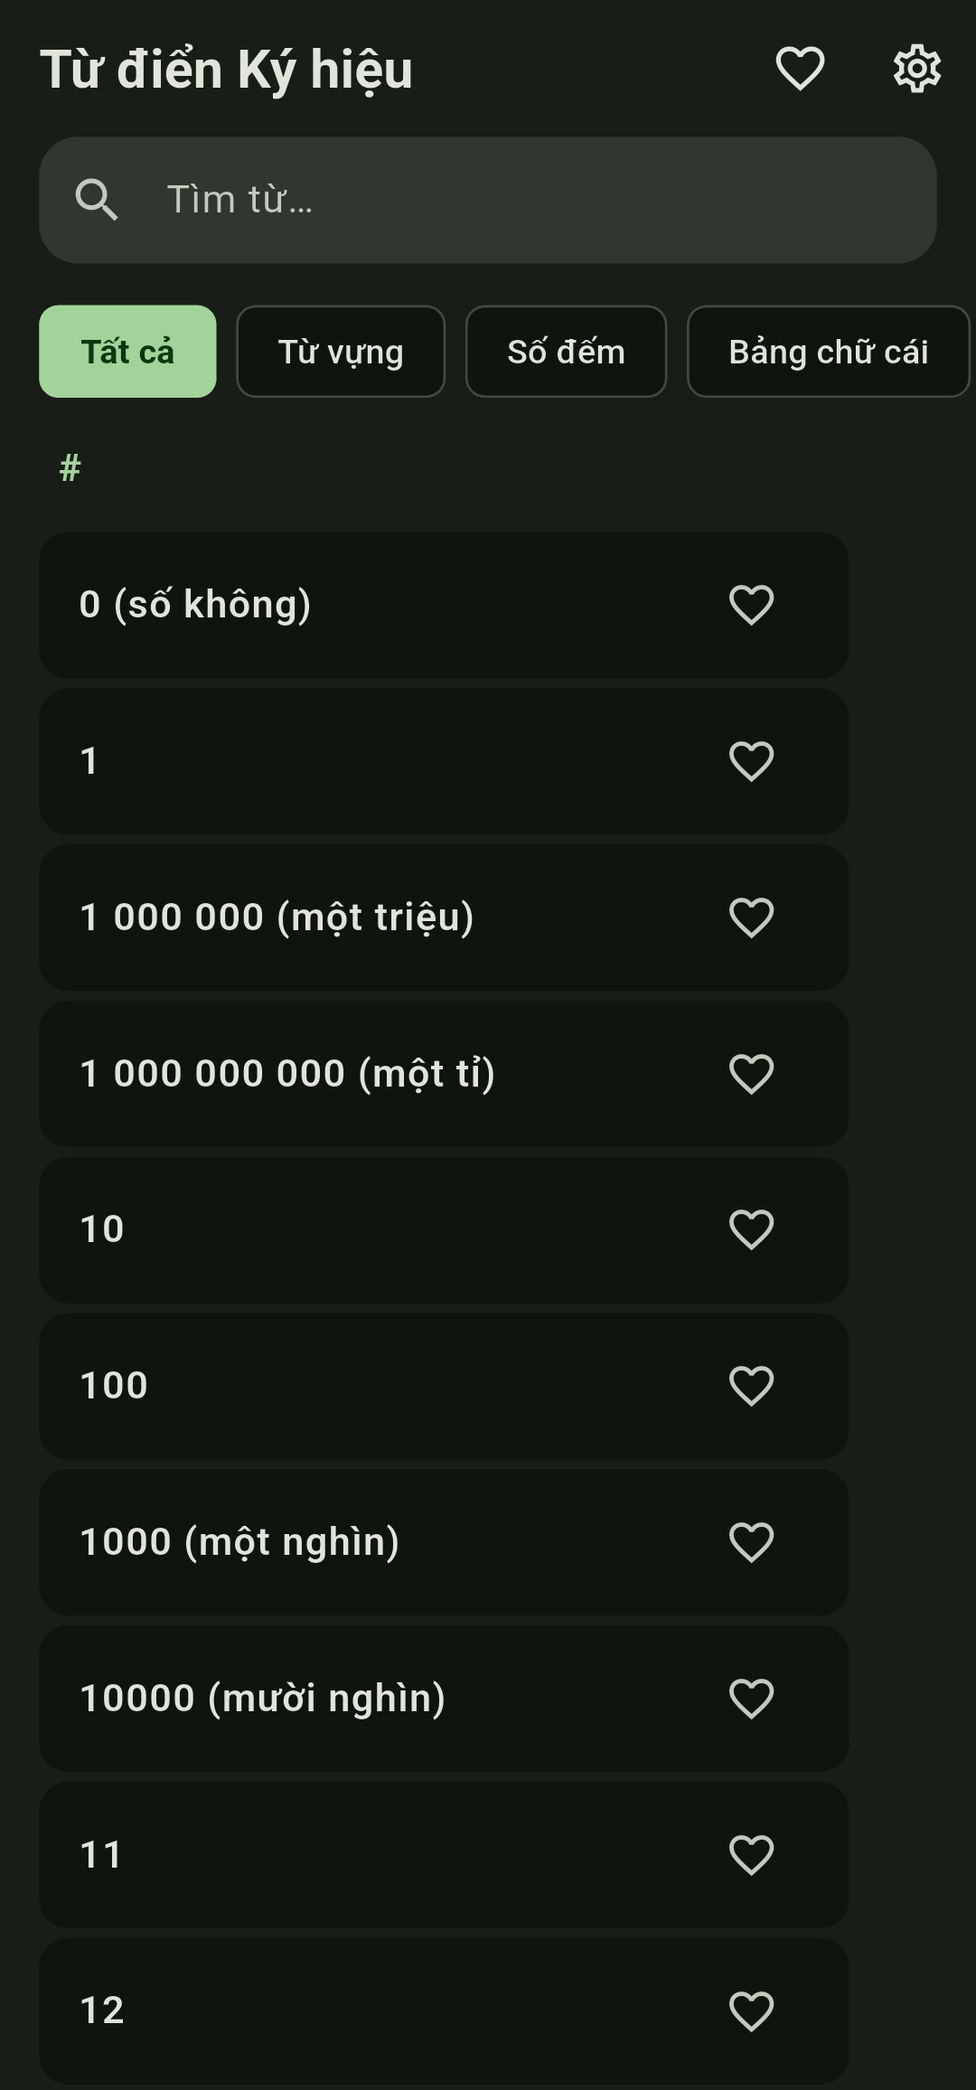
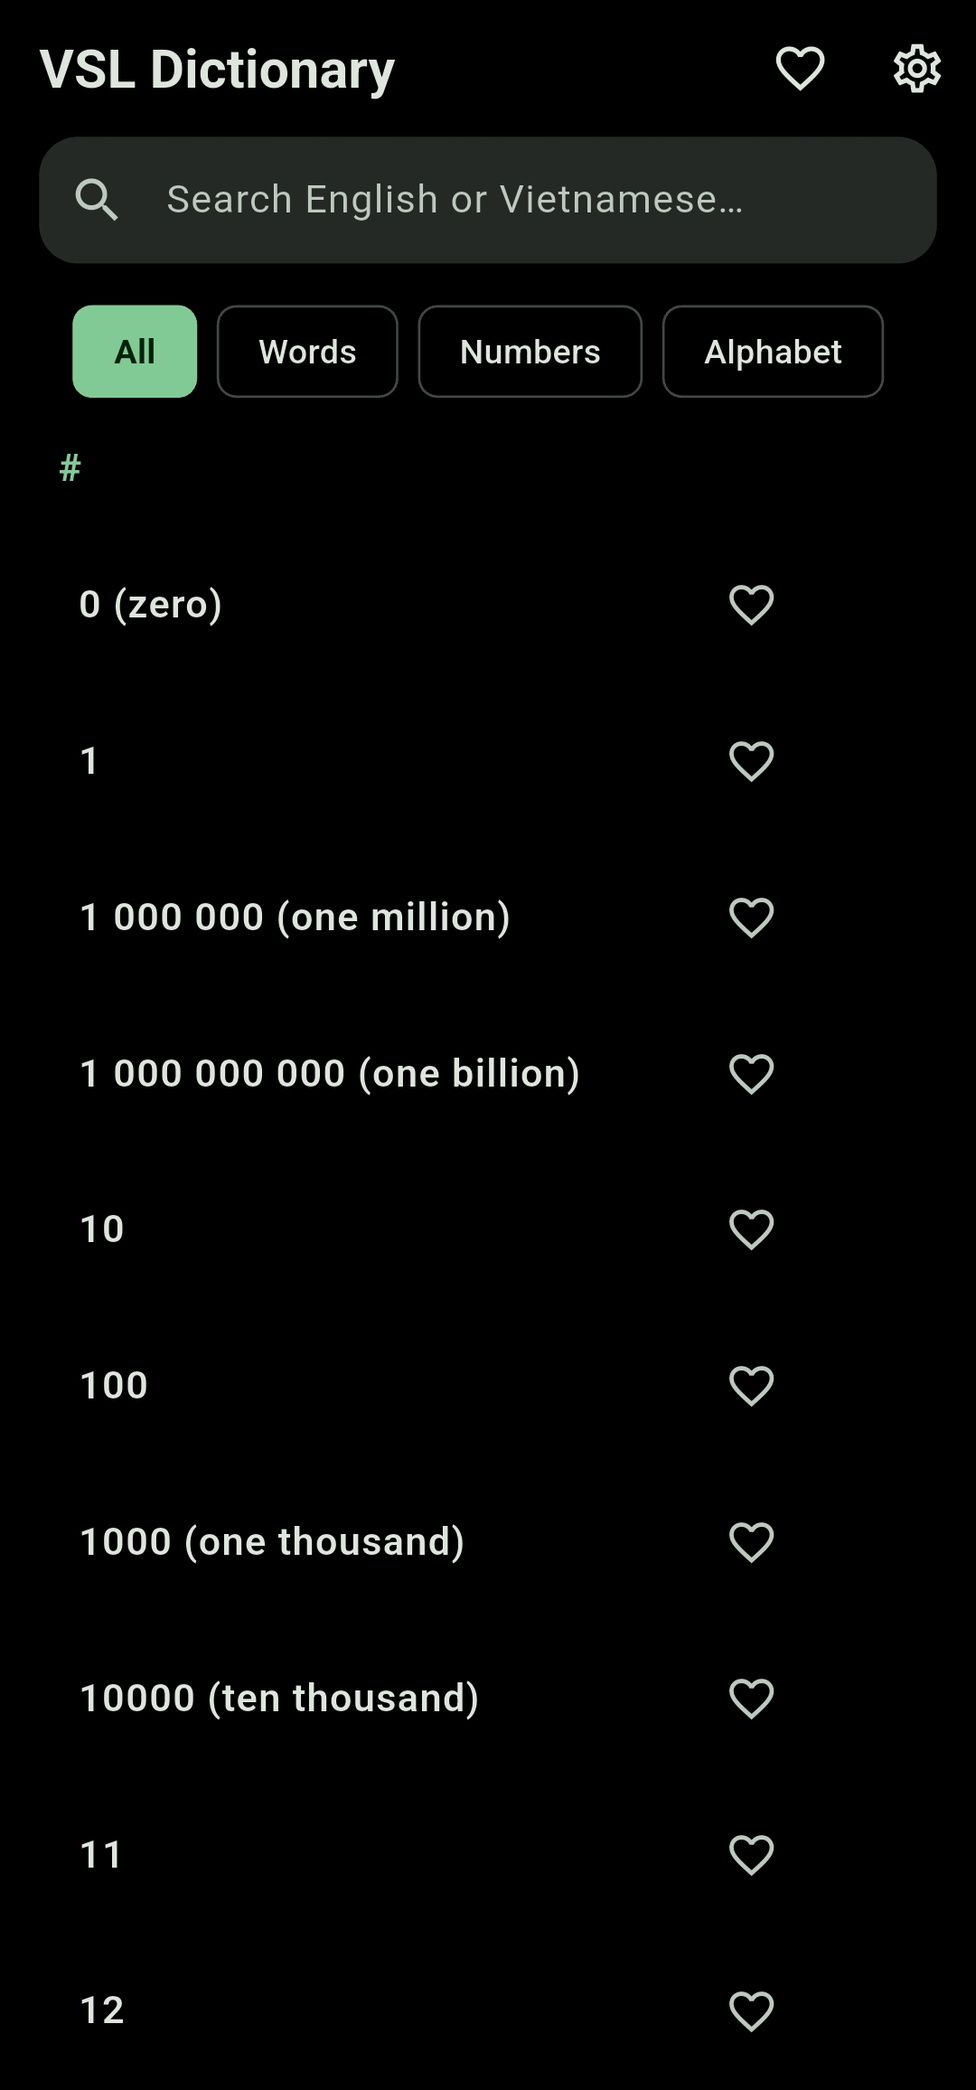
update some info

diff --git a/README.vi.md b/README.vi.md
@@ -1,0 +1,180 @@
+# VSL Dictionary — Từ điển Ký hiệu Việt Nam
+
+[English](README.md) | **Tiếng Việt**
+
+[![Build](https://github.com/ngozz/vsl-dictionary/actions/workflows/build.yml/badge.svg)](https://github.com/ngozz/vsl-dictionary/actions/workflows/build.yml)
+[![License: MIT](https://img.shields.io/badge/License-MIT-green.svg)](LICENSE)
+[![Release](https://img.shields.io/github/v/release/ngozz/vsl-dictionary?display_name=tag)](https://github.com/ngozz/vsl-dictionary/releases)
+<!-- F-Droid: [![F-Droid](https://img.shields.io/f-droid/v/com.ngozz.vsl_dictionary.svg)](https://f-droid.org/packages/com.ngozz.vsl_dictionary/) -->
+
+Ứng dụng Flutter nhanh, ưu tiên offline để tra cứu Từ điển Ký hiệu Việt Nam.
+Video là chính, tìm kiếm là chính, không rườm rà. Giao diện tiếng Việt,
+tiếng Anh hoặc Kết hợp.
+
+**Nguồn dữ liệu:** nội dung từ điển được chuyển thể từ Từ điển Ngôn ngữ ký
+hiệu quốc gia tại [qipedc.moet.gov.vn/dictionary](https://qipedc.moet.gov.vn/dictionary).
+
+## Ngôn ngữ
+
+- **Giao diện:** tiếng Việt, tiếng Anh hoặc **Kết hợp** (từ tiếng Anh làm
+  chính, kèm tiếng Việt bên dưới) — Cài đặt → Ngôn ngữ, cũng được hỏi khi mở
+  ứng dụng lần đầu.
+- **Nội dung:** bản thân từ điển là **tiếng Việt** — từ khóa, nghĩa và video
+  dấu là dữ liệu gốc. Nghĩa và định nghĩa tiếng Anh là lớp dịch đi kèm, hiển
+  thị cùng với bản gốc.
+- **Tìm kiếm** theo giao diện: chỉ tiếng Việt ở chế độ Việt, gloss tiếng Anh
+  ở chế độ Anh, và gộp cả hai (khớp tốt nhất lên đầu) ở chế độ Kết hợp.
+- *Ghi chú về bản dịch:* phần tiếng Anh được dịch với sự hỗ trợ của AI và
+  được người thật soát một phần. Một số mục vẫn có thể hơi gượng — rất mong
+  nhận được sửa lỗi qua issues.
+
+## Cài đặt
+
+- **Android:** APK mới nhất tại
+  [Releases](https://github.com/ngozz/vsl-dictionary/releases):
+  - `vsl-dictionary-android.apk` — nhỏ (~25 MB), video dấu phát từ CDN, tải
+    về trong ứng dụng để dùng offline
+  - `vsl-dictionary-android-full.apk` — ~600 MB, kèm toàn bộ media, offline
+    hoàn toàn ngay khi cài
+- **Web:** <https://ngozz.github.io/vsl-dictionary/>
+- **iOS** (IPA chưa ký): thêm vào SideStore/AltStore bằng nguồn bên dưới.
+
+## Ảnh minh họa
+
+Giao diện tiếng Việt:
+
+<p align="center">
+  <a href="ss/1_vn.jpg"><img src="ss/1_vn.jpg" width="23%" alt="Onboarding — Chào mừng đến với VSL Dictionary"></a>&nbsp;<a href="ss/2_vn.jpg"><img src="ss/2_vn.jpg" width="23%" alt="Trang chủ — tìm kiếm và duyệt từ"></a>&nbsp;<a href="ss/3_vn.jpg"><img src="ss/3_vn.jpg" width="23%" alt="Cài đặt — vùng mặc định, giao diện, tải offline"></a>&nbsp;<a href="ss/4_vn.jpg"><img src="ss/4_vn.jpg" width="23%" alt="Trang từ — video dấu, xem chậm, ảnh minh họa"></a>
+</p>
+
+Giao diện tiếng Anh:
+
+<p align="center">
+  <a href="ss/1.jpg"><img src="ss/1.jpg" width="23%" alt="Onboarding (English UI)"></a>&nbsp;<a href="ss/2.jpg"><img src="ss/2.jpg" width="23%" alt="Home — search and browse"></a>&nbsp;<a href="ss/3.jpg"><img src="ss/3.jpg" width="23%" alt="Settings — region, theme, offline downloads"></a>&nbsp;<a href="ss/4.jpg"><img src="ss/4.jpg" width="23%" alt="Word screen — sign video, slow-mo, illustrations"></a>
+</p>
+
+*Chạm vào ảnh để xem kích thước đầy đủ.*
+
+## Tính năng
+
+- **Trang chủ tìm-trước**: tìm kiếm tức thì không phân biệt dấu — gõ "cho"
+  vẫn ra "chó" — xếp hạng theo tiền tố/âm tiết và đánh dấu khớp, trên hơn
+  4.300 dấu. Ở chế độ English hoặc Kết hợp, gloss tiếng Anh cũng được tìm.
+- **Tab duyệt** — Tất cả (nhóm theo bảng chữ cái, có thanh nhảy A-Z và
+  scrollbar kéo được), Từ vựng, Số đếm, Bảng chữ cái. Sắp xếp theo từ hiển thị
+  của ngôn ngữ giao diện hiện tại.
+- **Trang từ** — video dấu (H.264, không tiếng theo thiết kế), biến thể theo
+  vùng (Bắc / Trung / Nam) nếu có, xem chậm 0.5×, toàn màn hình, nghĩa và ảnh
+  minh họa.
+- **Nội dung tiếng Anh** — gloss và định nghĩa tiếng Anh trên mọi mục đã
+  dịch; từ tiếng Anh làm chính ở chế độ English/Kết hợp, kèm tiếng Việt bên
+  dưới ở chế độ Kết hợp.
+- **Cá nhân hóa** — yêu thích, vùng mặc định, ba giao diện (tối / đen hoàn
+  toàn AMOLED / sáng, Material 3 xanh lá).
+- **Offline hoàn toàn** — video dấu phát từ CDN theo mặc định (APK nhỏ
+  ~25 MB) và có thể tải về trong ứng dụng để có thư viện offline đầy đủ;
+  bản FULL (~600 MB APK) kèm sẵn toàn bộ.
+
+## Cấu trúc dự án
+
+```
+vsl-dictionary/
+├── data/
+│   ├── vsl_data.json     # danh mục từ điển (id, word, type, description…)
+│   ├── i18n/en/          # sidecar tiếng Anh (gloss + định nghĩa)
+│   ├── videos/           # 4.364 video dấu đã encode lại (H.264 mp4, không âm thanh)
+│   └── images/           # 1.840 ảnh minh họa (WebP q80)
+├── lib/
+│   ├── main.dart         # điểm vào app + theme Material You
+│   ├── models/word.dart  # data model
+│   ├── services/         # tìm kiếm, xử lý media, cài đặt
+│   └── screens/          # home (tìm kiếm/duyệt) + trang từ
+├── ss/                   # ảnh chụp dùng trong README này (giao diện Việt + Anh)
+├── .github/workflows/    # CI build + release (xem bên dưới)
+└── icon.png              # nguồn icon launcher
+```
+
+Thư mục `_sources/` (không kèm theo đây) chứa dự án Unity gốc. Phần dữ liệu
+do tôi thực hiện: video được encode lại thành H.264 mp4, ảnh thành WebP.
+
+## Build
+
+```bash
+flutter pub get
+flutter run              # chạy trên thiết bị
+flutter build apk --release         # Android
+flutter build web --release         # Web → build/web
+flutter build ios --no-codesign     # iOS (cần Xcode + macOS)
+```
+
+## CI/CD (GitHub Actions)
+
+`.github/workflows/build.yml` build và publish tự động. Trigger:
+
+| Trigger | Kết quả |
+|---|---|
+| Commit có **tin nhắn chứa `[build]`** | Build **cả hai biến thể**: Android APK + iOS IPA chưa ký + Web |
+| **Thủ công** (`workflow_dispatch`) | Như trên, bất cứ lúc nào |
+| Push khác | CI được bỏ qua có chủ đích |
+
+Mỗi lần build **tạo một GitHub Release** (`v<số-run>`) chứa **cả hai biến
+thể**, build từ cùng một commit:
+
+- `vsl-dictionary-android.apk` — SMALL (CDN): video dấu phát từ media host,
+  tải về trong ứng dụng để dùng offline
+- `vsl-dictionary-android-full.apk` — FULL: kèm toàn bộ media (~600 MB)
+- `vsl-dictionary-ios-unsigned.ipa` — SMALL (CDN); nguồn SideStore/AltStore
+  trỏ tới file này
+- `vsl-dictionary-ios-full-unsigned.ipa` — FULL: kèm toàn bộ media
+- `vsl-dictionary-web.zip` — bản web tĩnh
+
+Bản web cũng được **triển khai lên GitHub Pages** tự động mỗi lần build
+`main` (base path được ném vào lúc build nên chạy được dưới `/<repo>/`).
+Ứng dụng online tại `https://ngozz.github.io/vsl-dictionary/`.
+
+Muốn đưa lên Play Store hay F-Droid? Xem [PUBLISHING.md](PUBLISHING.md).
+
+## Chế độ CDN (bản SMALL)
+
+Video dấu phát từ `https://vsl-dictionary-media.ngozz.workers.dev`
+(Cloudflare Workers static assets, free tier). Thứ tự ưu tiên: bản đã tải →
+CDN → asset kèm sẵn. `tools/toggle_videos.ps1` chuyển qua lại giữa hai biến
+thể (dòng asset trong pubspec + `lib/config.dart` cùng lúc); CI chạy nó hai
+lần mỗi release để build cả hai.
+
+- **Tải tất cả** (Cài đặt → Tải xuống & cập nhật): ~513 MB vào bộ nhớ ứng
+  dụng, kiểm tra kích thước + SHA-256 trước khi kích hoạt; chạy lại chỉ
+  enqueue phần chênh lệch.
+- **Kiểm tra cập nhật**: khi mở ứng dụng (có thể tắt) hoặc thủ công — so
+  kích thước manifest với bản local và hỏi trước khi tải lại bất cứ thứ gì.
+- **Web**: phát CDN-first; nếu CDN lỗi với một video, player thử lại từ bản
+  kèm trên GitHub Pages.
+
+Bản iOS có thể thêm vào SideStore hoặc AltStore bằng nguồn này:
+`https://ngozz.github.io/vsl-dictionary/altstore-source.json`. Nó trỏ tới bản
+IPA **nhỏ** chưa ký mới nhất (offline đến từ tải trong ứng dụng);
+SideStore/AltStore ký khi cài.
+
+### Ghi chú setup repo
+
+1. Bật **Actions → Settings → Pages → GitHub Pages** với nguồn là workflow
+   (job `deploy-pages` tự cấu hình việc này).
+2. Media (~540 MB) làm repo nặng; cân nhắc [`git lfs`](https://git-lfs.com)
+   cho `data/videos/*` nếu gặp giới hạn push — hoặc bỏ media khỏi git và
+   lấy từ CDN ở vòng sau (media service được thiết kế để đổi prefix sang
+   URL). Lưu ý: máy build của F-Droid clone cả repo nên cần làm gọn trước
+   khi gửi (xem [PUBLISHING.md](PUBLISHING.md)).
+3. Build iOS không cần setup thêm (không có cấu hình ký = IPA chưa ký trên
+   macOS runner).
+
+## Ghi công dữ liệu
+
+Nội dung từ điển lấy từ
+[Việt Nam Dictionary of Sign Language](https://qipedc.moet.gov.vn/dictionary)
+(Trung tâm Ký hiệu Việt Nam / Bộ Giáo dục và Đào tạo). Dự án này là trình đọc
+dùng cá nhân, không phải sản phẩm gốc.
+
+## Giấy phép
+
+[MIT](LICENSE) — nội dung từ điển thuộc về nhà xuất bản gốc của nó (xem ghi
+công ở trên).

diff --git a/README.md b/README.md
@@ -1,30 +1,77 @@
 # VSL Dictionary — Từ điển Ký hiệu Việt Nam
 
+**English** | [Tiếng Việt](README.vi.md)
+
+[![Build](https://github.com/ngozz/vsl-dictionary/actions/workflows/build.yml/badge.svg)](https://github.com/ngozz/vsl-dictionary/actions/workflows/build.yml)
+[![License: MIT](https://img.shields.io/badge/License-MIT-green.svg)](LICENSE)
+[![Release](https://img.shields.io/github/v/release/ngozz/vsl-dictionary?display_name=tag)](https://github.com/ngozz/vsl-dictionary/releases)
+<!-- F-Droid: [![F-Droid](https://img.shields.io/f-droid/v/com.ngozz.vsl_dictionary.svg)](https://f-droid.org/packages/com.ngozz.vsl_dictionary/) -->
+
 A fast, offline-first Flutter app for browsing the Vietnamese Sign Language
-dictionary. Video-first, search-first, no fluff.
+dictionary. Video-first, search-first, no fluff. Interface in Vietnamese,
+English or Mixed.
 
 **Source data:** dictionary content transcribed from the National Sign
 Language Dictionary at [qipedc.moet.gov.vn/dictionary](https://qipedc.moet.gov.vn/dictionary).
 
+## Languages
+
+- **Interface:** Vietnamese, English, or **Mixed** (English headwords with
+  the Vietnamese word underneath) — Settings → Language, also asked on first
+  launch.
+- **Content:** the dictionary itself is **Vietnamese** — headwords,
+  definitions and the sign videos are the original data. English glosses and
+  definitions are a translated companion layer shown alongside them.
+- **Search** follows the interface: Vietnamese-only in Vietnamese, English
+  glosses in English, and both languages merged (best match first) in Mixed.
+- *Translation note:* English text was translated with AI assistance and
+  partially reviewed by hand. Some entries may still read awkwardly —
+  corrections are very welcome via issues.
+
+## Install
+
+- **Android:** latest APKs from
+  [Releases](https://github.com/ngozz/vsl-dictionary/releases):
+  - `vsl-dictionary-android.apk` — small (~25 MB), streams sign videos from
+    the CDN, downloads them in-app for offline use
+  - `vsl-dictionary-android-full.apk` — ~600 MB, everything bundled, works
+    fully offline out of the box
+- **Web:** <https://ngozz.github.io/vsl-dictionary/>
+- **iOS** (unsigned IPA): add to SideStore/AltStore with the source below.
+
 ## Screenshots
 
+English UI:
+
 <p align="center">
-  <a href="ss/1.jpg"><img src="ss/1.jpg" width="23%" alt="Onboarding — Chào mừng đến với VSL Dictionary"></a>&nbsp;<a href="ss/2.jpg"><img src="ss/2.jpg" width="23%" alt="Search and browse — Tất cả / Từ vựng / Số đếm / Bảng chữ cái"></a>&nbsp;<a href="ss/3.jpg"><img src="ss/3.jpg" width="23%" alt="Settings — default region, theme and offline downloads"></a>&nbsp;<a href="ss/4.jpg"><img src="ss/4.jpg" width="23%" alt="Word detail — sign video, 0.5× slow-mo and illustrations"></a>
+  <a href="ss/1.jpg"><img src="ss/1.jpg" width="23%" alt="Onboarding (English UI)"></a>&nbsp;<a href="ss/2.jpg"><img src="ss/2.jpg" width="23%" alt="Home — search and browse"></a>&nbsp;<a href="ss/3.jpg"><img src="ss/3.jpg" width="23%" alt="Settings — region, theme, offline downloads"></a>&nbsp;<a href="ss/4.jpg"><img src="ss/4.jpg" width="23%" alt="Word screen — sign video, slow-mo, illustrations"></a>
+</p>
+
+Vietnamese UI:
+
+<p align="center">
+  <a href="ss/1_vn.jpg"><img src="ss/1_vn.jpg" width="23%" alt="Onboarding — Chào mừng đến với VSL Dictionary"></a>&nbsp;<a href="ss/2_vn.jpg"><img src="ss/2_vn.jpg" width="23%" alt="Trang chủ — tìm kiếm và duyệt từ"></a>&nbsp;<a href="ss/3_vn.jpg"><img src="ss/3_vn.jpg" width="23%" alt="Cài đặt — vùng mặc định, giao diện, tải offline"></a>&nbsp;<a href="ss/4_vn.jpg"><img src="ss/4_vn.jpg" width="23%" alt="Trang từ — video dấu, xem chậm, ảnh minh họa"></a>
 </p>
 
 *Click a screenshot to open it full size.*
 
 ## What it does
 
-- **Search-first** home: instant accent-insensitive search with prefix-match
-  ranking and highlight, over 4,300 signs.
-- **Browse tabs** — Tất cả / Từ vựng (alphabetically grouped with an A–Z jump
-  rail and draggable scrollbar), Số đếm, Bảng chữ cái.
-- **Word detail** — sign video (H.264, silent by design), per-region variants
-  (Bắc / Trung / Nam) if available, 0.5× slow-mo, fullscreen playback,
-  description and illustration images.
+- **Search-first** home: instant accent-insensitive search — type "cho" and
+  find "chó" — with prefix/syllable-aware ranking and match highlighting,
+  over 4,300 signs. In English or Mixed mode the English glosses are
+  searchable too.
+- **Browse tabs** — All (alphabetically grouped with an A–Z jump rail and
+  draggable scrollbar), Words, Numbers, Alphabet. Sorted by the headword of
+  the current interface language.
+- **Word screen** — sign video (H.264, silent by design), per-region variants
+  (North / Central / South) if available, 0.5× slow-mo, fullscreen playback,
+  definition and illustration images.
+- **English content** — English gloss and definition on every translated
+  entry; the English headword leads in English/Mixed mode, with the
+  Vietnamese word kept underneath in Mixed.
 - **Personal touches** — favorites, default region preference, three themes
-  (Tối / Đen / Sáng, green-seeded Material 3), interface in Vietnamese.
+  (dark / pure-black AMOLED / light, green-seeded Material 3).
 - **Fully offline capable** — sign videos stream from the CDN by default
   (small ~25 MB APK) and can be downloaded in-app for a fully offline
   library; a FULL variant (~600 MB APK) bundles everything instead.
@@ -35,6 +82,7 @@ Language Dictionary at [qipedc.moet.gov.vn/dictionary](https://qipedc.moet.gov.v
 vsl-dictionary/
 ├── data/
 │   ├── vsl_data.json     # dictionary index (id, word, type, description…)
+│   ├── i18n/en/          # English sidecar (glosses + definitions)
 │   ├── videos/           # 4,364 re-encoded sign videos (H.264 mp4, no audio)
 │   └── images/           # 1,840 illustrations (WebP q80)
 ├── lib/
@@ -42,7 +90,7 @@ vsl-dictionary/
 │   ├── models/word.dart  # data model
 │   ├── services/         # dictionary search, media resolution, settings
 │   └── screens/          # home (search/browse) + word detail
-├── ss/                   # screenshots used in this README
+├── ss/                   # screenshots used in this README (English + Vietnamese UI)
 ├── .github/workflows/    # build + release CI (see below)
 └── icon.png              # launcher icon source
 ```
@@ -86,6 +134,8 @@ The web artifact is also **deployed to GitHub Pages** automatically on each
 `/<repo>/`). The online app is available at
 `https://ngozz.github.io/vsl-dictionary/`.
 
+Thinking about Play Store or F-Droid? See [PUBLISHING.md](PUBLISHING.md).
+
 ## CDN mode (SMALL builds)
 
 Sign videos stream from `https://vsl-dictionary-media.ngozz.workers.dev`
@@ -94,7 +144,7 @@ copy → CDN stream → bundled asset. `tools/toggle_videos.ps1` flips between
 variants (pubspec asset line + `lib/config.dart` together); CI runs it
 twice per release to build both.
 
-- **Download all** (Settings → Tải xuống & cập nhật): ~513 MB into app
+- **Download all** (Settings → Downloads & updates): ~513 MB into app
   storage with size+SHA-256 verification before promotion; re-running only
   enqueues the delta.
 - **Update check**: at startup (toggleable) or manually — compares manifest
@@ -114,7 +164,9 @@ downloads); SideStore/AltStore signs it during installation.
 2. Media (~540 MB) makes the repo big; consider
    [`git lfs`](https://git-lfs.com) for `data/videos/*` if you hit push
    limits — or keep media out of git and fetch it from your CDN in a later
-   iteration (the media service is designed to swap prefixes to URLs).
+   iteration (the media service is designed to swap prefixes to URLs). Note
+   that F-Droid's build server clones the whole repo, so slimming this down
+   matters before submitting there (see [PUBLISHING.md](PUBLISHING.md)).
 3. iOS builds need no extra setup (no signing config = unsigned IPA on a
    macOS runner).
 
@@ -124,3 +176,8 @@ Dictionary contents sourced from the
 [Việt Nam Dictionary of Sign Language](https://qipedc.moet.gov.vn/dictionary)
 (Trung tâm Ký hiệu Việt Nam / Bộ Giáo dục và Đào tạo). This project is a
 personal-use reader, not the original work.
+
+## License
+
+[MIT](LICENSE) — the dictionary content itself belongs to its original
+publishers (see attribution above).

diff --git a/PUBLISHING.md b/PUBLISHING.md
@@ -1,0 +1,49 @@
+# Publishing checklist — vsl-dictionary
+
+## Release hygiene
+- [x] `LICENSE` (MIT), `fastlane/metadata/android/` (en-US + vi-VN text, icon,
+      4 phone screenshots, `changelogs/1.txt`).
+- [ ] Tag the release commit — F-Droid reads these tags:
+      `git tag v1.0.0 && git push origin v1.0.0`
+- [ ] `pubspec.yaml` version is `1.0.0+1`. For every future store release the
+      `+N` (versionCode) must strictly increase.
+- [ ] CI publishes on a `[build]` commit marker and auto-attaches APKs/IPAs to
+      a GitHub Release. Edit the release text for v1.0.0 to be user-facing.
+
+## Store listings
+- Keep `short_description.txt` ≤ 80 chars (no trailing dot) and `title.txt`
+  ≤ 30 chars.
+- For every future release add `changelogs/<versionCode>.txt` (≤ 500 chars) in
+  both locales — F-Droid reads them automatically.
+
+## F-Droid
+1. Repo requirements: FOSS license ✓, FOSS dependencies ✓, version tags,
+   fastlane metadata ✓.
+2. Open a submission: <https://gitlab.com/fdroid/rfp/issues> (or the forum
+   submission queue).
+3. Fork <https://gitlab.com/fdroid/fdroiddata> and add
+   `metadata/com.ngozz.vsl_dictionary.yml`. Copy the build block from an
+   existing Flutter app in fdroiddata; point `UpdateCheckData` at
+   `pubspec.yaml` for auto-updates.
+4. Build the committed (CDN) state only — do **not** point the metadata at the
+   FULL variant. Keep the committed state = `tools/toggle_videos.ps1 0`.
+5. Validate with `fdroid lint`, test the build via the fdroiddata CI, then
+   open a merge request. Review takes days to weeks.
+
+Notes:
+- F-Droid signs the APK with its own key; `vsl-dictionary.jks` stays local and
+  is never committed (CI signs GitHub releases from repo secrets).
+- The FULL APK (~600 MB, videos bundled) is a GitHub-only convenience.
+- Be ready to answer where the dictionary data/videos come from (MoET portal
+  via the NgonTay project) — reviewers may raise NonFreeAssets for bundled
+  media; the CDN variant bundles none.
+
+## Play Store (optional)
+- One-time $25 fee; reuse the fastlane text and screenshots for the listing.
+- Build an AAB: `flutter build appbundle --release`.
+- Data safety: the app collects no user data. Content rating: educational.
+- Distribute the CDN (small) APK/AAB, not the FULL variant.
+
+## Never commit
+- `android/key.properties`, `*.jks` (gitignored; release signing uses GitHub
+  secrets).
